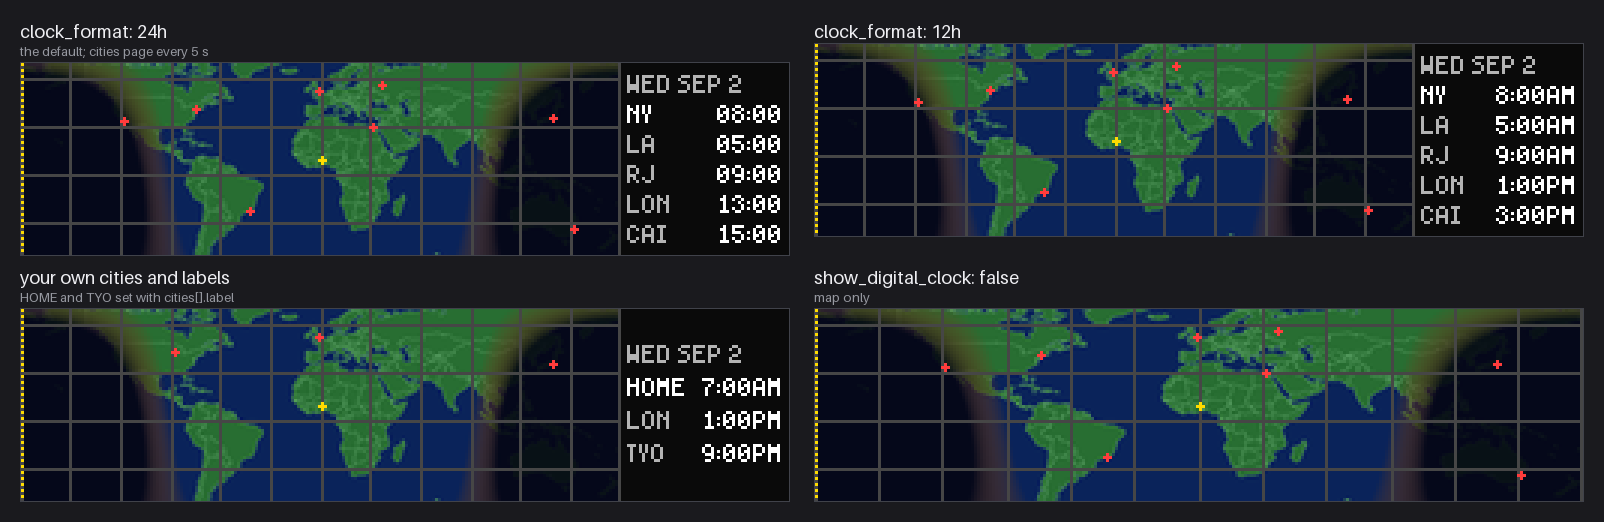
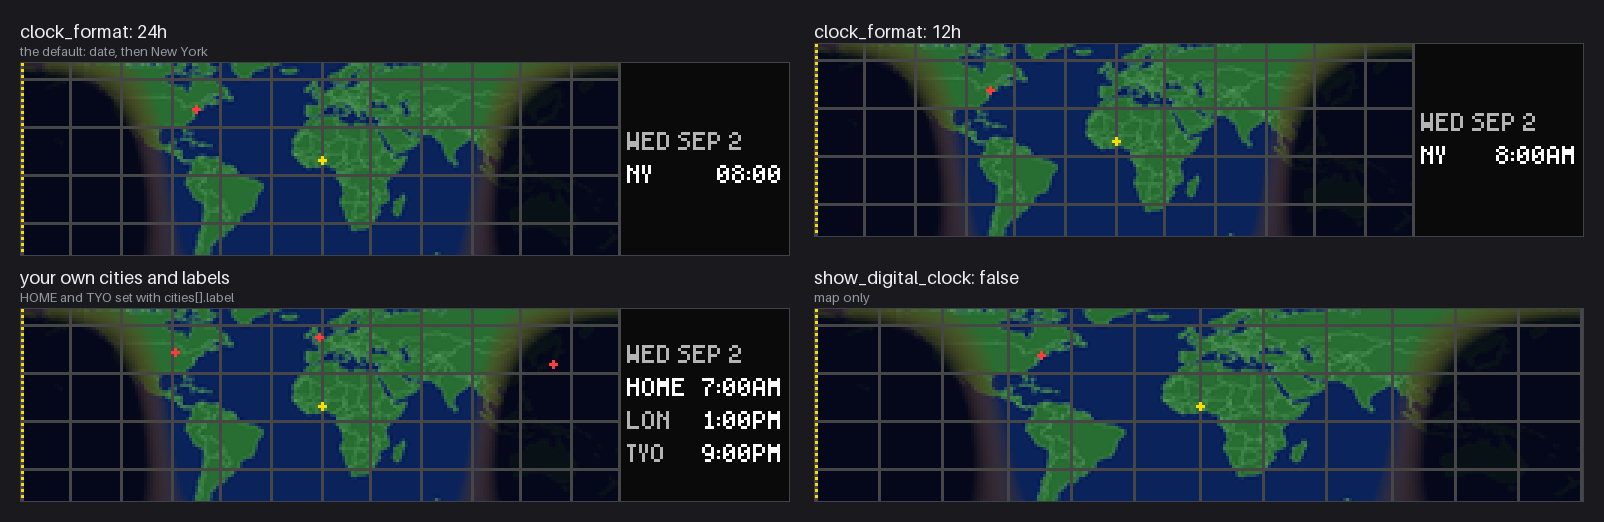
feat(geochron): default the city list to New York alone
The schema default drops from eight cities to New York, and manager.py's
config.get fallback mirrors it (it was []). Saved configs keep their own
cities. Goldens and README screenshots regenerated.

diff --git a/plugins/geochron/manager.py b/plugins/geochron/manager.py
@@ -39,6 +39,12 @@ DEFAULT_COLORS = {
 BASE_MAP_COLORS = ("ocean_color", "land_color", "coastline_color")
 
 
+# Mirrors config_schema.json's cities default.
+DEFAULT_CITIES = [
+    {"name": "New York", "lat": 40.71, "lon": -74.01, "timezone": "America/New_York"},
+]
+
+
 def _load_font():
     try:
         return ImageFont.truetype(FONT_PATH, FONT_SIZE)
@@ -100,7 +106,7 @@ class GeochronPlugin(BasePlugin):
         if self.date_line_labels not in ("top", "bottom"):
             self.date_line_labels = "bottom"
 
-        self.cities = list(config.get("cities", []))[:8]
+        self.cities = list(config.get("cities", DEFAULT_CITIES))[:8]
         # The sidebar is sized to the timezone list, so it follows the clock format.
         # With the clock off there is nothing to put in it, so the map goes full width.
         self._sidebar_w = (gr.sidebar_width(self.font.getlength, self.clock_format)

diff --git a/plugins/geochron/README.md b/plugins/geochron/README.md
@@ -109,7 +109,7 @@ at a glance, while a 64-wide panel can only show a slice — which is why
 | `graticule_step_deg` | integer | `30` | Graticule spacing: `15`, `30`, `45` or `90` |
 | `show_sun_marker` | boolean | `true` | Marker at the subsolar point |
 | `show_cities` | boolean | `true` | Markers for the configured cities |
-| `cities` | array | 8 cities | Up to 8 `{name, label, lat, lon, timezone}` entries |
+| `cities` | array | New York | Up to 8 `{name, label, lat, lon, timezone}` entries |
 | `show_digital_clock` | boolean | `true` | The timezone list |
 | `show_date` | boolean | `true` | Your local date above the timezone list (wide panels) |
 | `show_date_line` | boolean | `true` | Dotted midnight line on the map, with the weekday on each side |
@@ -208,9 +208,8 @@ clocks actually change date.
 | `lat` / `lon` | Decimal degrees; negative is south and west |
 | `timezone` | IANA zone, used for that city's local time |
 
-The defaults are eight well-spread cities, chosen to span the map rather than
-for any other reason. Replace them with your own — these are here so you can
-copy the exact timezone strings:
+The default is New York alone. Add your own — these well-spread cities are
+here so you can copy the exact coordinates and timezone strings:
 
 | City | Latitude | Longitude | Timezone |
 |------|----------|-----------|----------|

diff --git a/plugins/geochron/CHANGELOG.md b/plugins/geochron/CHANGELOG.md
@@ -5,14 +5,16 @@
 ### Changed
 - **The readout is a timezone list.** Your local time comes first, then one row
   per city that has a `timezone`: a short label on the left and the time
-  right-aligned, so the times read down a column. The subsolar coordinates,
-  the date and seconds are gone from it. They crowded the sidebar, and the
-  featured city was cut to "New Yo".
+  right-aligned, so the times read down a column. The subsolar coordinates
+  and seconds are gone from it; they crowded the sidebar, and the featured
+  city was cut to "New Yo". The date now heads the list (`show_date`).
 - **Wide panels size the sidebar to the list** and the map gives up the width.
   When there are more cities than rows, the local row stays pinned and the
   cities page every 5 seconds, split evenly across pages.
 - **Corner readouts** (non-wide panels) show the local time and the first city
   in the same label-and-time form, instead of UTC and the date.
+- **The default city list is New York alone**, not eight cities. Saved
+  configs keep whatever cities they already list.
 
 ### Added
 - **`show_date`** (default on) heads the timezone list with your local date,
